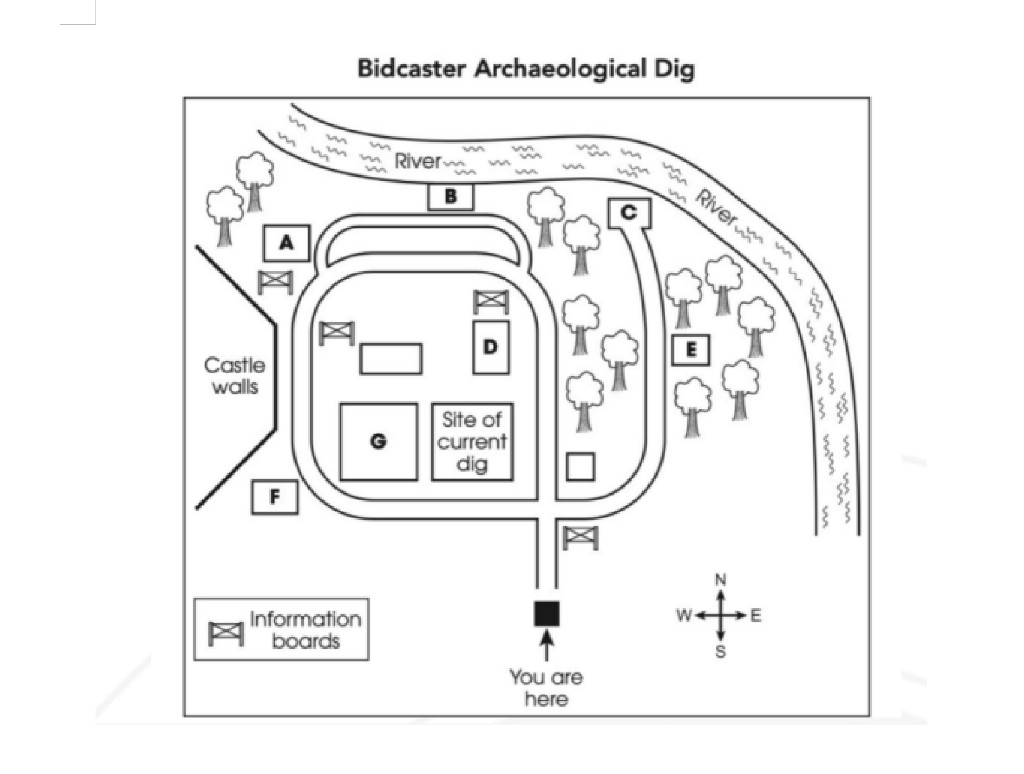
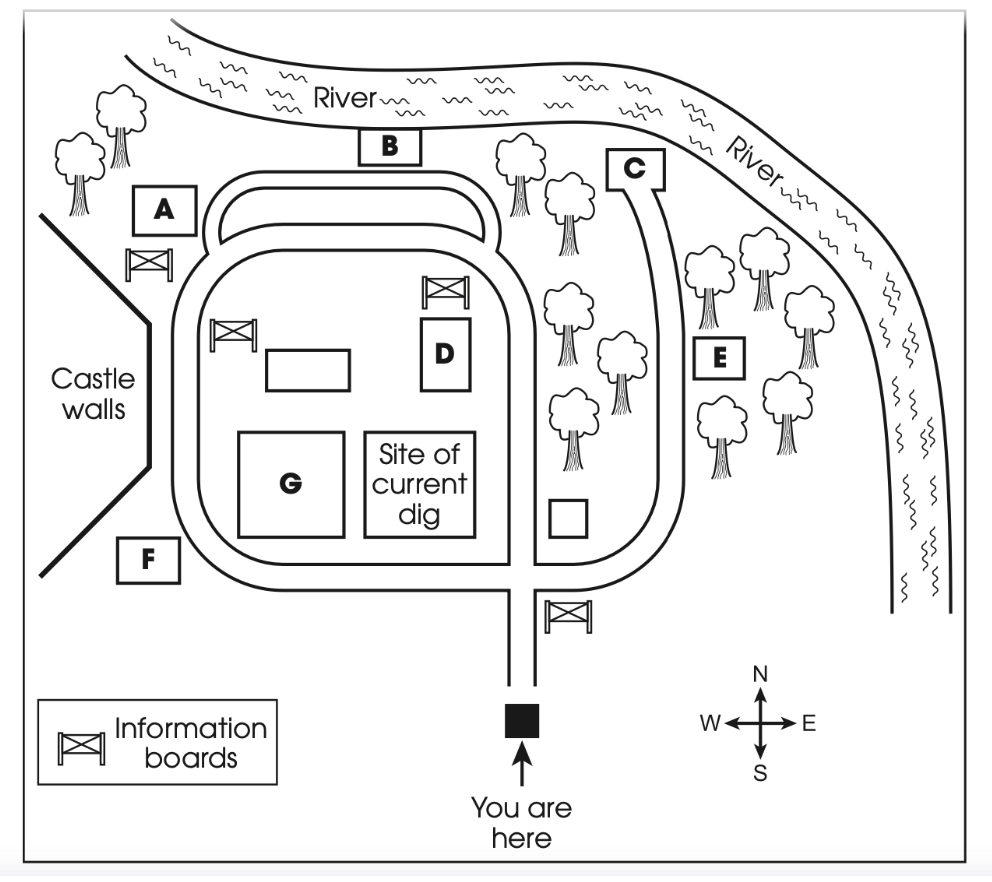
fix(listening): use official C20 Test 3 map and split Q9–10
Replace the abstract SVG with the book map and put Q9 and Q10 on separate lines so Part 1 matches the paper.

diff --git a/library/mock/cambridge-listening/cambridge-20-test-3.html b/library/mock/cambridge-listening/cambridge-20-test-3.html
@@ -272,7 +272,7 @@ const TEST = {
             [`Peak Rentals`,`Prices range from $105 to $<Q n="1"> per room per month.`,`The furniture is very <Q n="2"><br>Delivers in 1–2 days<br>Special offer: free <Q n="3"> with every living room set`],
             [`<Q n="4"> and Oliver`,`Mid-range prices<br>12% monthly fee for <Q n="5">`,`Also offers a cleaning service`],
             [`Larch Furniture`,`Offers cheapest prices for renting furniture and <Q n="6"> items`,`Must have own <Q n="7"><br>Minimum contract length: six months`],
-            [`<Q n="8"> Rentals`,`—`,`See the <Q n="9"> for the most up-to-date prices<br><Q n="10"> are allowed within 7 days of delivery`],
+            [`<Q n="8"> Rentals`,`—`,`<div>See the <Q n="9"> for the most up-to-date prices</div><div><Q n="10"> are allowed within 7 days of delivery</div>`],
           ],
           questions:[
             {id:'L1',no:1,answer:['239'],explain:`价格区间上限。答案：239。`},
@@ -307,53 +307,6 @@ const TEST = {
           mapTitle:'Bidcaster Archaeological Dig',
           image:'ielts20_test3_map.png',
           letters:['A','B','C','D','E','F','G'],
-          svg:`<svg viewBox="0 0 640 580" xmlns="http://www.w3.org/2000/svg" style="width:100%;max-width:640px;height:auto;font-family:sans-serif;">
-            <defs>
-              <g id="t3tree"><path d="M0,-3 C -11,-3 -12,-16 -3,-17 C -3,-25 10,-25 10,-16 C 18,-15 16,-3 6,-3 Z" fill="#ffffff" stroke="#333" stroke-width="1.3"/><line x1="3" y1="-3" x2="3" y2="9" stroke="#333" stroke-width="1.6"/></g>
-              <g id="t3ib"><rect x="-13" y="-9" width="26" height="18" fill="#ffffff" stroke="#333" stroke-width="1.2"/><path d="M-13,-9 L13,9 M13,-9 L-13,9" stroke="#333" stroke-width="1"/></g>
-            </defs>
-            <rect x="20" y="20" width="600" height="540" fill="#ffffff" stroke="#222" stroke-width="2"/>
-            <path d="M20,95 Q190,73 345,119 Q480,159 575,250 Q638,320 618,445" fill="none" stroke="#e2e7ee" stroke-width="24"/>
-            <path d="M20,82 Q190,60 345,106 Q480,146 575,238 Q638,308 614,438" fill="none" stroke="#5b6b7b" stroke-width="1.3"/>
-            <path d="M20,108 Q190,86 345,132 Q480,172 575,262 Q645,332 624,452" fill="none" stroke="#5b6b7b" stroke-width="1.3"/>
-            <text x="290" y="102" font-size="15" fill="#5b6b7b">River</text>
-            <text x="556" y="212" font-size="15" fill="#5b6b7b" transform="rotate(38 556 212)">River</text>
-            <polyline points="118,208 180,300 118,410" fill="none" stroke="#111" stroke-width="6"/>
-            <text x="36" y="296" font-size="14" fill="#1e2a3a">Castle</text>
-            <text x="42" y="314" font-size="14" fill="#1e2a3a">walls</text>
-            <use href="#t3tree" x="92" y="160"/><use href="#t3tree" x="128" y="182"/>
-            <use href="#t3tree" x="430" y="188"/><use href="#t3tree" x="478" y="212"/><use href="#t3tree" x="515" y="248"/><use href="#t3tree" x="445" y="262"/><use href="#t3tree" x="498" y="300"/><use href="#t3tree" x="530" y="330"/><use href="#t3tree" x="458" y="338"/>
-            <rect x="150" y="140" width="250" height="290" rx="58" ry="58" fill="none" stroke="#333" stroke-width="2"/>
-            <rect x="172" y="163" width="206" height="244" rx="44" ry="44" fill="none" stroke="#333" stroke-width="2"/>
-            <path d="M322,430 L322,500 M338,430 L338,500" stroke="#333" stroke-width="1.6" fill="none"/>
-            <rect x="228" y="185" width="72" height="34" fill="none" stroke="#333" stroke-width="1.4"/>
-            <rect x="200" y="288" width="74" height="74" fill="none" stroke="#333" stroke-width="1.6"/>
-            <text x="230" y="330" font-size="16" font-weight="700" fill="#1e2a3a">G</text>
-            <rect x="288" y="286" width="84" height="84" fill="none" stroke="#333" stroke-width="1.6"/>
-            <text x="300" y="318" font-size="13" fill="#1e2a3a">Site of</text><text x="298" y="334" font-size="13" fill="#1e2a3a">current</text><text x="314" y="350" font-size="13" fill="#1e2a3a">dig</text>
-            <rect x="312" y="196" width="42" height="42" fill="none" stroke="#333" stroke-width="1.6"/>
-            <text x="328" y="222" font-size="16" font-weight="700" fill="#1e2a3a">D</text>
-            <rect x="430" y="298" width="34" height="34" fill="none" stroke="#333" stroke-width="1.4"/>
-            <use href="#t3ib" x="158" y="228"/><use href="#t3ib" x="232" y="262"/><use href="#t3ib" x="318" y="252"/><use href="#t3ib" x="350" y="470"/>
-            <g font-size="16" font-weight="700" fill="#1e2a3a">
-              <rect x="108" y="170" width="32" height="28" fill="#fff" stroke="#333" stroke-width="1.5"/><text x="116" y="191">A</text>
-              <rect x="288" y="150" width="32" height="27" fill="#fff" stroke="#333" stroke-width="1.5"/><text x="296" y="170">B</text>
-              <rect x="398" y="164" width="32" height="28" fill="#fff" stroke="#333" stroke-width="1.5"/><text x="406" y="185">C</text>
-              <rect x="466" y="290" width="32" height="28" fill="#fff" stroke="#333" stroke-width="1.5"/><text x="474" y="311">E</text>
-              <rect x="146" y="434" width="32" height="28" fill="#fff" stroke="#333" stroke-width="1.5"/><text x="154" y="455">F</text>
-            </g>
-            <rect x="318" y="492" width="26" height="26" fill="#111"/>
-            <path d="M331,490 L331,464 M331,464 L325,474 M331,464 L337,474" stroke="#111" stroke-width="2" fill="none"/>
-            <text x="296" y="540" font-size="13" fill="#1e2a3a">You are</text><text x="306" y="556" font-size="13" fill="#1e2a3a">here</text>
-            <g stroke="#222" stroke-width="1.8" fill="none">
-              <line x1="556" y1="450" x2="556" y2="498"/><line x1="532" y1="474" x2="580" y2="474"/>
-              <path d="M556,450 l-5,9 l10,0 Z" fill="#222" stroke="none"/><path d="M580,474 l-9,-5 l0,10 Z" fill="#222" stroke="none"/>
-            </g>
-            <g font-size="13" fill="#1e2a3a"><text x="551" y="444">N</text><text x="551" y="514">S</text><text x="516" y="478">W</text><text x="585" y="478">E</text></g>
-            <rect x="35" y="476" width="190" height="56" fill="#fff" stroke="#333" stroke-width="1.4"/>
-            <use href="#t3ib" x="68" y="504"/>
-            <text x="96" y="500" font-size="13" fill="#1e2a3a">Information</text><text x="96" y="517" font-size="13" fill="#1e2a3a">boards</text>
-          </svg>`,
           questions:[
             {id:'L17',no:17,q:`bridge foundations`,answer:['B'],explain:`地图标注。答案：B。`},
             {id:'L18',no:18,q:`rubbish pit`,answer:['A'],explain:`地图标注。答案：A。`},

diff --git a/exam.html b/exam.html
@@ -239,7 +239,7 @@
   <div class="score-toast-host" id="score-toast-host" aria-live="polite"></div>
 
   <script src="assets/js/auth.js?v=20260812scores304"></script>
-  <script src="assets/js/config.js?v=20260820c21read1"></script>
+  <script src="assets/js/config.js?v=20260821c20lis1"></script>
   <script src="assets/js/exam-cdt.js?v=20260805p3scroll3"></script>
   <script src="assets/js/exam.js?v=20260812s5"></script>
 </body>

diff --git a/assets/js/config.js b/assets/js/config.js
@@ -6,7 +6,7 @@ window.YYSD = (function () {
   "use strict";
 
   // Bump when library HTML changes so exam iframe skips stale browser cache.
-  var CONTENT_VER = "20260820c21read1";
+  var CONTENT_VER = "20260821c20lis1";
   var WRONG_WORDS_KEY = "yysd:wrong-words";
   var SAVED_WORDS_KEY = "yysd:saved-words";
 
